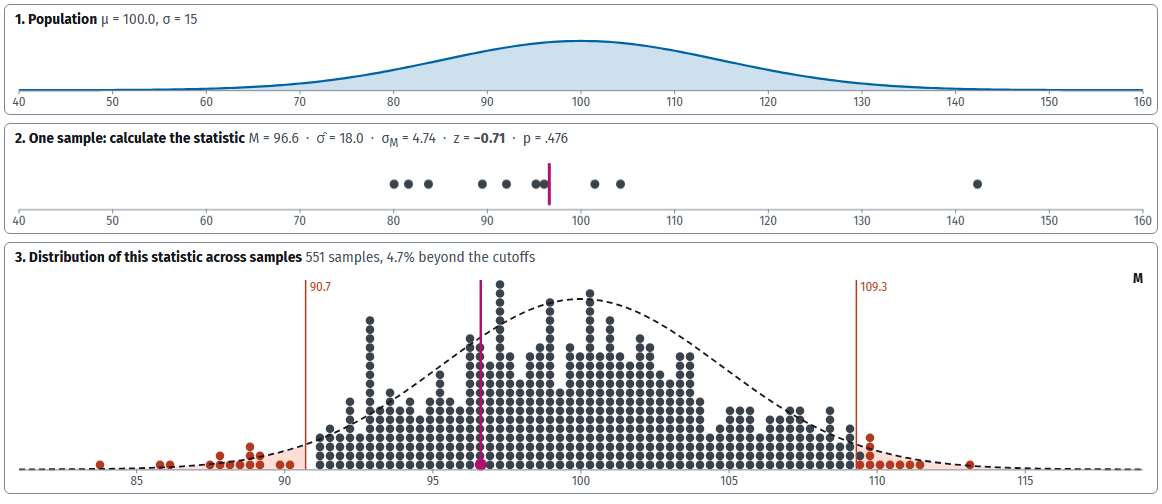
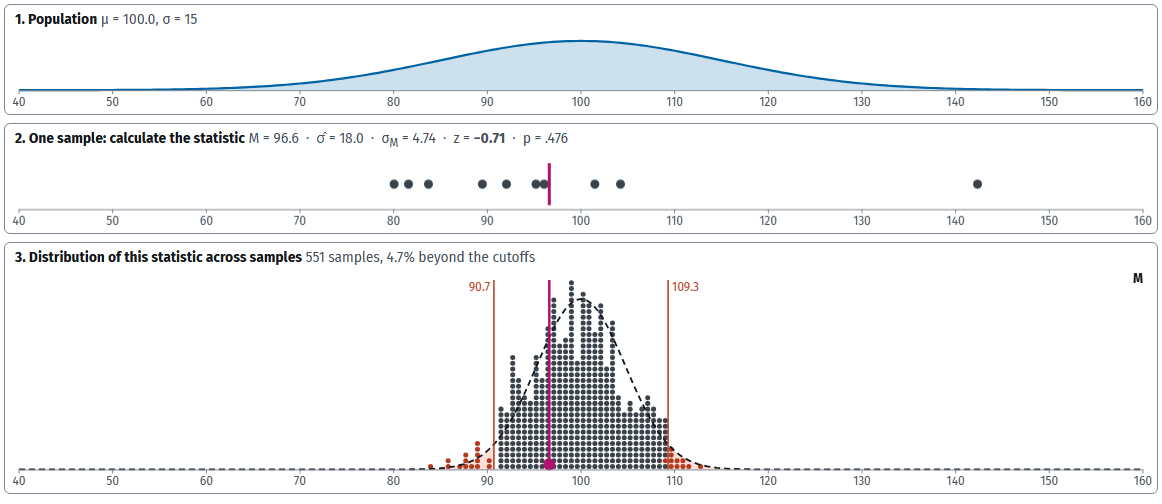
Share the score axis across the simulator's panels
In score units, panel 3 zoomed in on its own axis, so the mean jumped
sideways as it dropped from panel 2. Panels 1 to 3 now share one axis for
steps 1 and 2: the mean falls straight down, and a larger n visibly narrows
the distribution under the population. The z and t views keep their own
axes.

Cutoff labels now sit outside their lines, because a large n brings them
close together. Refresh the template's print screenshot.

diff --git a/simulator/blueprint.js b/simulator/blueprint.js
@@ -26,9 +26,17 @@
     state.rng = E.makeRng(state.seed);
   }
 
+  // A mean in score units lives on the same axis as the scores, so a statistic
+  // falls straight down and sample size shows up as a narrower distribution
+  function sharesAxis(c) { return c.view === "raw" && c.meta.kind === "one"; }
+
   // Fix the axis of panel 3 from a pilot run, so it doesn't jump around as dots land
   function setRange() {
     var c = state.c, rng = E.makeRng(99), vals = [], i;
+    if (sharesAxis(c)) {
+      state.range = popAxis(c);
+      return;
+    }
     for (i = 0; i < 800; i++) {
       var s = E.drawSample(c, rng);
       vals.push(c.view === "raw" ? s.raw : s.stat);
@@ -539,7 +547,7 @@
     var pad = 14, base = f.h - 24, top = 10, height = base - top, dist = state.dist;
     var dom = state.range, x = D.scale(dom[0], dom[1], pad, f.w - pad);
     var useRaw = c.view === "raw", rn = useRaw ? E.rawNull(c) : null;
-    var fn = null, cutLo, cutHi;
+    var fn = null, cutLo, cutHi, shared = sharesAxis(c);
 
     if (!useRaw) {
       fn = function (v) { return E.pdf(dist, v); };
@@ -634,7 +642,9 @@
       ctx.moveTo(x(v), top);
       ctx.lineTo(x(v), base);
       ctx.stroke();
-      D.text(ctx, D.fmt(v, Math.abs(v) >= 20 ? 1 : 2), x(v) + (v < 0 && dist.family !== "f" ? -4 : 4), top + 11, { color: C.crit, align: v < 0 && dist.family !== "f" ? "right" : "left" });
+      // Each label sits outside its cutoff, because a large n brings them close together
+      var outward = shared ? v < rn.mean : v < 0 && dist.family !== "f";
+      D.text(ctx, D.fmt(v, Math.abs(v) >= 20 ? 1 : 2), x(v) + (outward ? -4 : 4), top + 11, { color: C.crit, align: outward ? "right" : "left" });
     });
 
     // The current sample
@@ -652,7 +662,7 @@
       ctx.fill();
     }
 
-    D.xAxis(ctx, x, base, pad, f.w - pad, 10);
+    D.xAxis(ctx, x, base, pad, f.w - pad, shared ? 9 : 10);
     D.text(ctx, axisName(c), f.w - pad, top + 3, { align: "right", color: C.text, size: 14, bold: true });
     var capDist = document.getElementById("cap-dist"), beyond = countBeyond();
     capDist.textContent = N ? N.toLocaleString("en-US") + (N === 1 ? " sample" : " samples") + ", " + D.pct(beyond / N) + " beyond the cutoffs" : "No samples yet";
